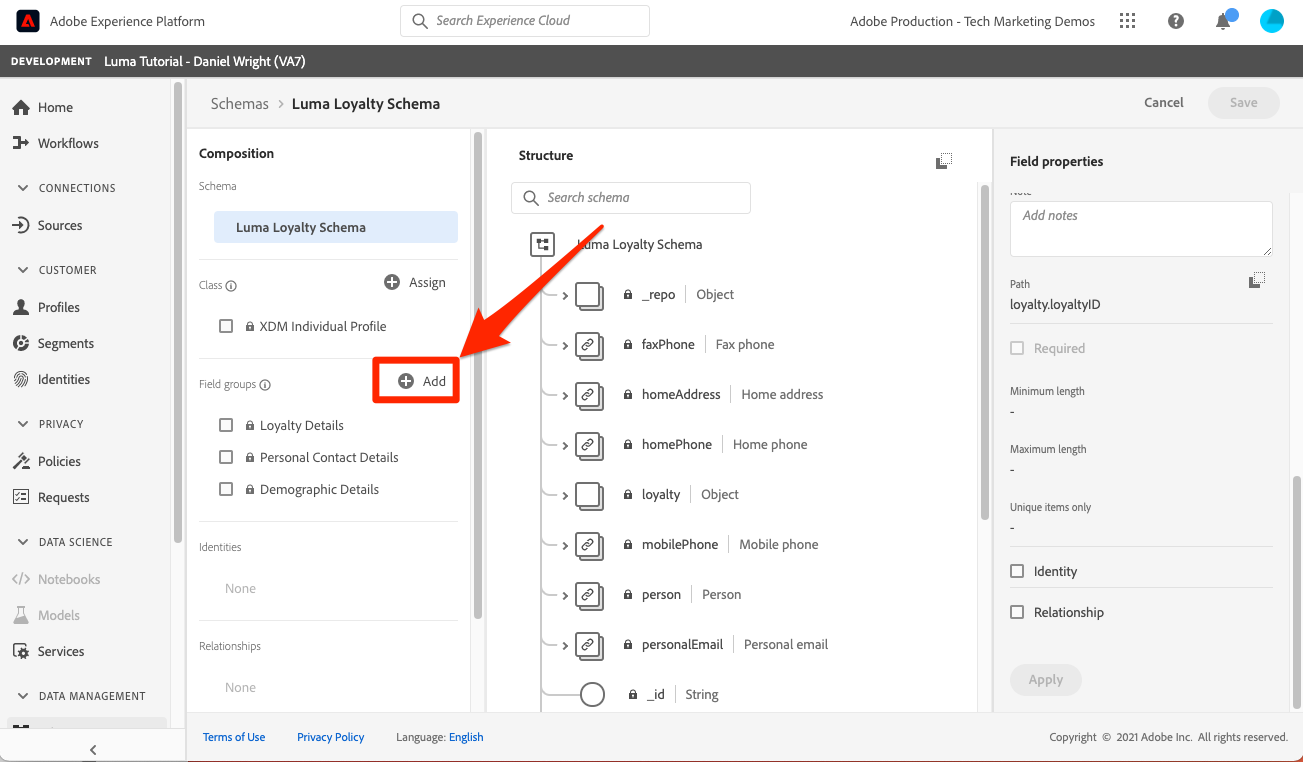
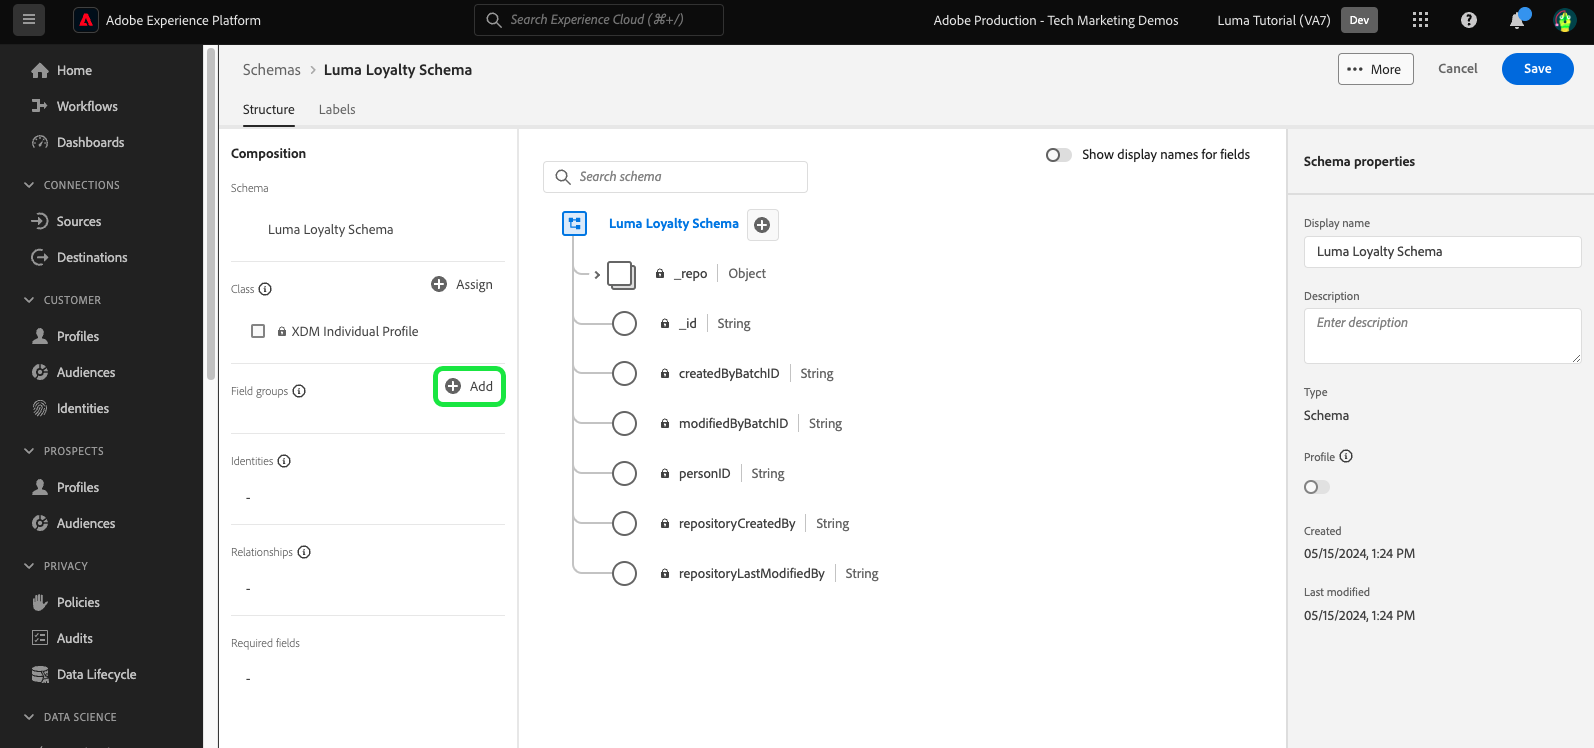
Updated the 'Add standard field groups' section: screenshots & wording

diff --git a/help/tutorial-data-architect-and-engineer/model-data-in-schemas.md b/help/tutorial-data-architect-and-engineer/model-data-in-schemas.md
@@ -84,10 +84,12 @@ When working with your own data, a big step will be to determine which of your o
 
 To add field groups:
 
-1. In the **[!UICONTROL Add Field groups]** modal, select following field groups:
+1. Select **[!UICONTROL Add]** under the **[!UICONTROL Field Groups]** heading.
+![Add a new field group](assets/schemas-loyalty-addFieldGroup.png)
+1. In the **[!UICONTROL Add Field groups]** modal, select the following field groups:
    1. **[!UICONTROL Demographic Details]** for basic customer data like name and birthdate
    1. **[!UICONTROL Personal Contact Details]** for basic contact details like email address and phone number
-1. You can preview the fields contributed in the field group by selecting the icon on the right side of the row. 
+1. You can preview the fields contributed in the field group by selecting the icon on the right side of the row.
     ![Select standard field groups](assets/schemas-loyalty-addFirstTwoFieldGroups.png)
 
 1. Check the **[!UICONTROL Industry]** > **[!UICONTROL Retail]** box to expose  industry-specific field groups.
@@ -98,12 +100,8 @@ To add field groups:
 
 Now take some time to explore the current state of the schema. The field groups have added standard fields related to a person, their contact details, and loyalty program status. You may find these two field groups useful when you create schemas for your own company's data. Select a specific field group row or check the box next to the field group name to see how the visualization changes. 
 
-To save the schema:
-
-1. Select the top node of the schema.
-1. Enter `Luma Loyalty Schema` as the **[!UICONTROL Display Name]**.
-1. Select **[!UICONTROL Save]**.
-![Name and save the schema](assets/schemas-loyalty-nameAndSave.png)
+To save the schema, select **[!UICONTROL Save]**.
+![Save the schema](assets/schemas-loyalty-saveSchema.png)
 
 >[!NOTE]
 >
